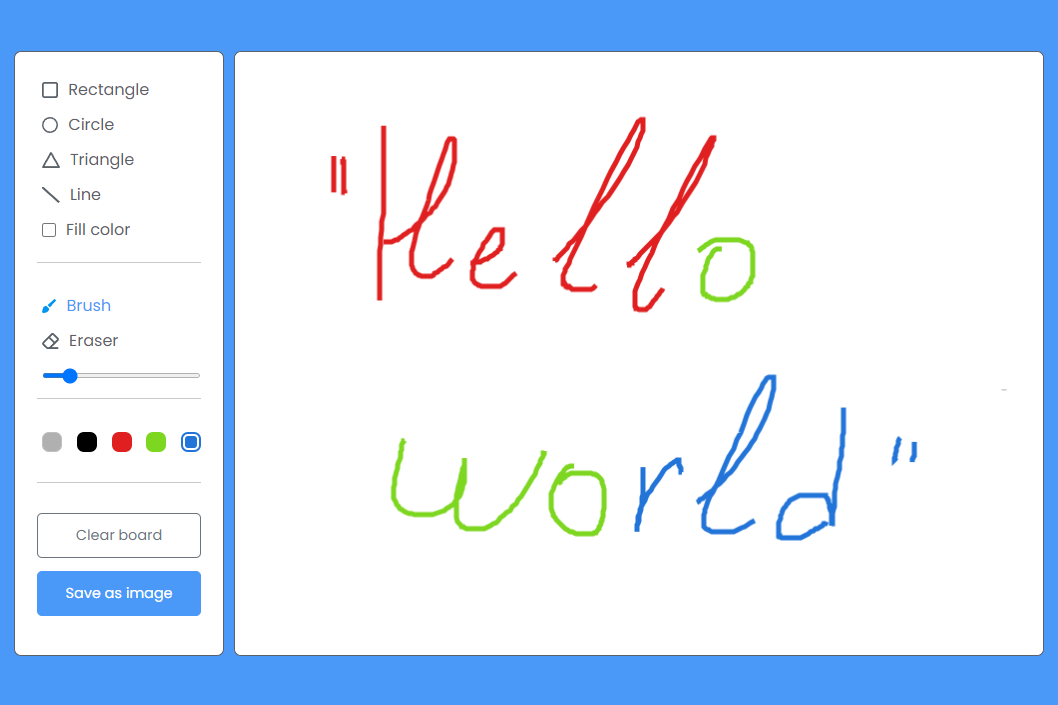
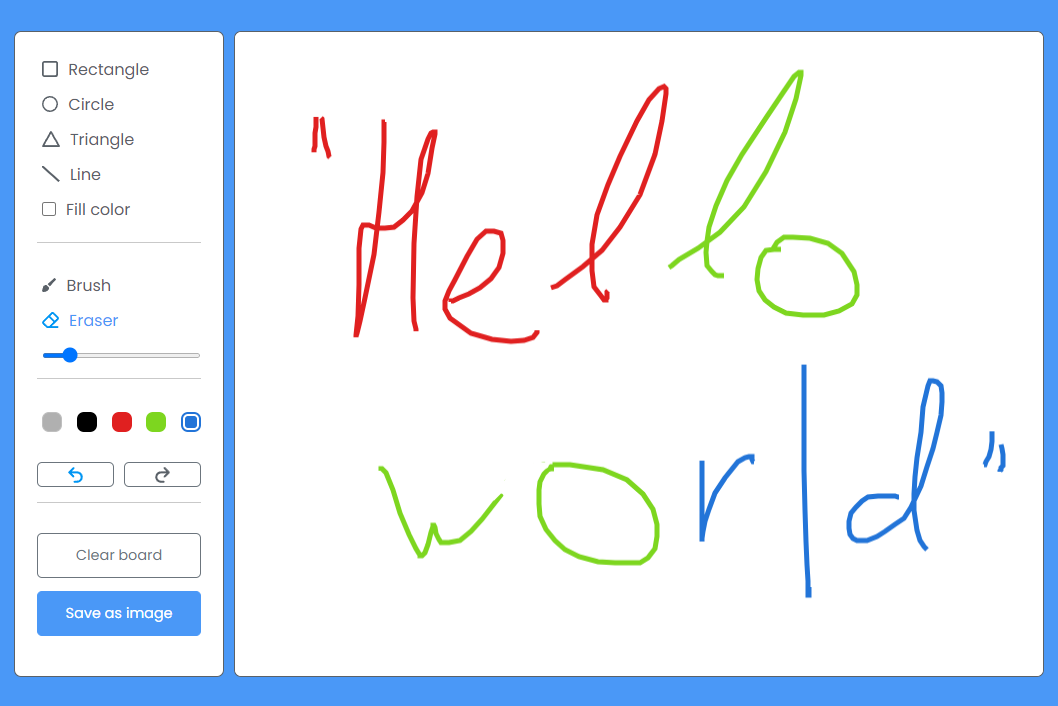
add undo, redo

diff --git a/collection/Paint/script.js b/collection/Paint/script.js
@@ -7,12 +7,17 @@ const colorBtns = document.querySelectorAll(".colors .option");
 const colorPicker = document.querySelectorAll("#color-picker");
 const clearCanvas = document.querySelector(".clear-canvas");
 const saveImg = document.querySelector(".save-img");
+const undo = document.querySelector(".undo");
+const redo = document.querySelector(".redo");
 
 let prevMouseX, prevMouseY, snapshot;
 let isDrawing = false;
 let selectedTool = "brush";
 let brushWidth = 5;
 let selectedColor = "#000";
+let restoreArray = [];
+let restoreArrayRedo = [];
+let index = -1;
 
 const setCanvasBackground = () => {
     ctx.fillStyle = "#fff";
@@ -130,6 +135,9 @@ colorPicker.forEach((e) => {
 clearCanvas.addEventListener("click", () => {
     ctx.clearRect(0, 0, canvas.width, canvas.height);
     setCanvasBackground();
+    restoreArray = [];
+    restoreArrayRedo = [];
+    index = -1;
 });
 
 saveImg.addEventListener("click", () => {
@@ -141,4 +149,39 @@ saveImg.addEventListener("click", () => {
 
 canvas.addEventListener("mousedown", startDraw);
 canvas.addEventListener("mousemove", drawing);
-canvas.addEventListener("mouseup", () => (isDrawing = false));
+canvas.addEventListener("mouseup", () => {
+    isDrawing = false;
+    restoreArray.push(ctx.getImageData(0, 0, canvas.width, canvas.height));
+    index++;
+    restoreArrayRedo = [];
+    undo.classList.add("unlock");
+    redo.classList.remove("unlock");
+});
+
+undo.addEventListener("click", () => {
+    if (index <= 0) {
+        if (restoreArray.length != 0) restoreArrayRedo.push(restoreArray.pop());
+        ctx.clearRect(0, 0, canvas.width, canvas.height);
+        setCanvasBackground();
+        restoreArray = [];
+        index = -1;
+        undo.classList.remove("unlock");
+    } else {
+        index -= 1;
+        restoreArrayRedo.push(restoreArray.pop());
+        ctx.putImageData(restoreArray[index], 0, 0);
+        redo.classList.add("unlock");
+    }
+});
+
+redo.addEventListener("click", () => {
+    if (restoreArrayRedo.length != 0) {
+        index++;
+        ctx.putImageData(restoreArrayRedo[restoreArrayRedo.length - 1], 0, 0);
+        restoreArray.push(restoreArrayRedo.pop());
+        undo.classList.add("unlock");
+    }
+    if (restoreArrayRedo.length == 0) {
+        redo.classList.remove("unlock");
+    }
+});

diff --git a/collection/Paint/style.css b/collection/Paint/style.css
@@ -133,6 +133,45 @@ section {
   cursor: pointer;
 }
 
+.undo-redo {
+  margin: 0  0 5px 0 !important;
+}
+
+.undo-redo .options {
+  display: flex;
+  justify-content: space-between;
+  margin: 10px 0 0 0;
+}
+
+.undo-redo button {
+  background: #ffffff;
+  border: 1px solid #6C757D;
+  border-radius: 5px;
+  height: 25px;
+  width: 77px;
+  transition: all 0.3s ease;
+}
+
+.undo:hover img, .redo:hover img {
+  filter: none;
+}
+
+.undo.unlock, .redo.unlock {
+  cursor: pointer;
+}
+
+.undo.unlock img, .redo.unlock img {
+  filter: invert(17%) sepia(90%) saturate(3000%) hue-rotate(900deg) brightness(100%) contrast(100%);
+}
+
+.undo.unlock:hover, .redo.unlock:hover {
+  background: #6C757D;
+}
+
+.undo.unlock:hover img, .redo.unlock:hover img {
+  filter: brightness(1000%);
+}
+
 .buttons button {
   width: 100%;
   color: #fff;

diff --git a/collection/Paint/index.html b/collection/Paint/index.html
@@ -71,6 +71,21 @@
             </li>
           </ul>
         </div>
+        <div class="row undo-redo">
+          <ul class="options">
+            <li class="option">
+              <button class="undo">
+                <img src="./icons/undo.svg" alt="undo">
+              </button>
+            </li>
+            <li class="option">
+              <button class="redo">
+                <img src="./icons/redo.svg" alt="redo">
+              </button>
+            </li>
+          </ul>
+          
+        </div>
         <div class="row buttons">
           <label class="title"></label>
           <button class="clear-canvas">Clear board</button>
